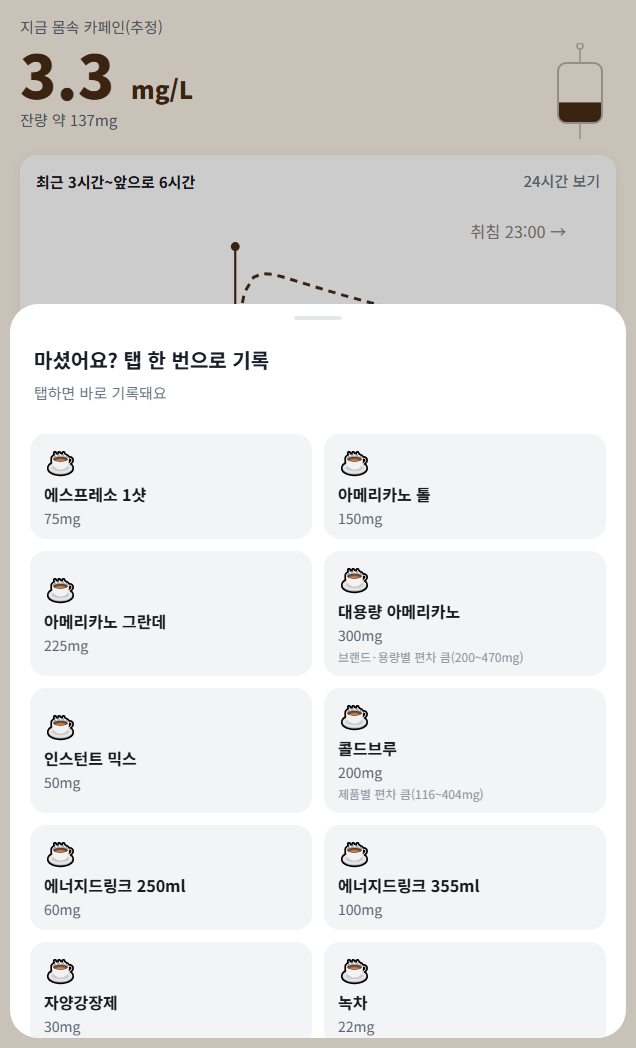
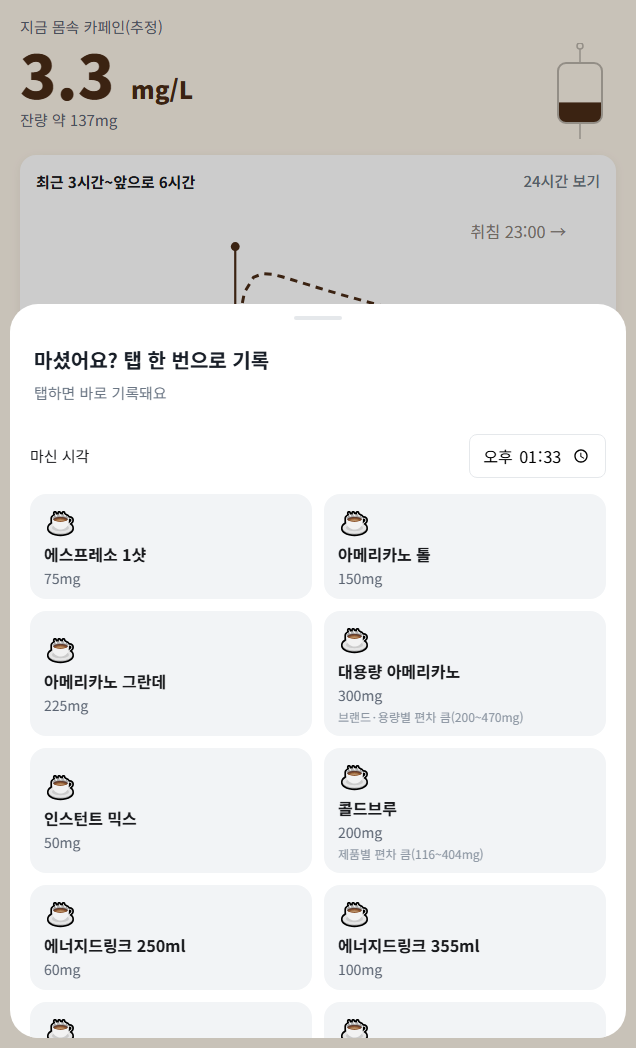
기록 시트 시각 입력을 절대 시각 네이티브 피커로 교체 (15차 개정)
- RecordSheet: hourOffset 스테퍼(◀/▶) 삭제, "마신 시각" <input type="time"
  step=60>을 그리드 위로("언제 → 무엇을"). 안 건드리면 nowMs 그대로 사용
  (탭 한 번으로 기록 유지), 시트 재오픈 시 항상 "지금"으로 리셋
- bedtime.ts: lastOccurrenceMs(now, hhmm) 추가 — bedtimeMsOf와 반대 방향
  (미래면 하루 뺀다). normalizeBedtime에 fallback 인자 추가해 재사용
  (마신 시각은 파싱 실패 시 "지금"으로 폴백, 취침은 "23:00")
- check-core.ts #14: 고정 4케이스 + 288개 성질 assert + 두 함수가 같은
  입력에서 같은 값을 내면 안 된다는 방향 확인 assert

diff --git a/src/features/home/RecordSheet.tsx b/src/features/home/RecordSheet.tsx
@@ -1,8 +1,9 @@
 import { useState } from "react";
-import { BottomSheet, Button, ListRow, TextButton, TextField } from "@toss/tds-mobile";
+import { BottomSheet, Button, ListRow, TextField } from "@toss/tds-mobile";
 import { adaptive } from "@toss/tds-colors";
 
 import { PRESETS, type Drink, type PresetInfo } from "../../lib/caffeine";
+import { lastOccurrenceMs, toKstHHMM } from "../../lib/bedtime";
 import { palette } from "../../theme";
 
 /** 기록 시트(§2) — 탭 한 번 즉시 기록, 광고·확인 절차 없음(코어 루프 보호). */
@@ -24,14 +25,13 @@ export function RecordSheet({
   onRemove: (id: string) => void;
 }) {
   const [customMg, setCustomMg] = useState("");
-  const [hourOffset, setHourOffset] = useState(0); // 0=지금, 1=1시간 전 ...
-  const [showStepper, setShowStepper] = useState(false);
-  const atMs = nowMs - hourOffset * 3_600_000;
+  // null = 안 건드림 → "지금"(§2 15차). 건드리면 그 시각의 직전 발생(미래 불가)으로 고정된다.
+  const [timeText, setTimeText] = useState<string | null>(null);
+  const atMs = timeText == null ? nowMs : lastOccurrenceMs(nowMs, timeText);
 
   const reset = () => {
     setCustomMg("");
-    setHourOffset(0);
-    setShowStepper(false);
+    setTimeText(null);
   };
 
   return (
@@ -46,6 +46,18 @@ export function RecordSheet({
     >
       {/* 시트 좌우 패딩 20px — 헤더(TDS 기본 여백)와 그리드가 같은 좌측 기준선을 쓰게 한다(§2 13차). */}
       <div style={{ padding: "0 20px 16px" }}>
+      {/* "언제 → 무엇을" — 그리드보다 위(§2 15차). 네이티브(TDS에 시간 컴포넌트 없음, §3와 같은 이유).
+          절대 시각만 표기 — 1시간 스텝 상대 표기는 tmax 38.6분 정밀도를 입력 단계에서 무효화했다. */}
+      <div style={{ display: "flex", justifyContent: "space-between", alignItems: "center", marginTop: 16 }}>
+        <span style={{ fontSize: 15, color: palette.ink }}>마신 시각</span>
+        <input
+          type="time"
+          step={60}
+          value={timeText ?? toKstHHMM(nowMs)}
+          onChange={(e) => setTimeText(e.target.value)}
+          style={{ fontSize: 16, padding: "8px 12px", border: `1px solid ${adaptive.grey200}`, borderRadius: 8 }}
+        />
+      </div>
       <div style={{ display: "grid", gridTemplateColumns: "1fr 1fr", gap: 12, marginTop: 16 }}>
         {(Object.entries(PRESETS) as [keyof typeof PRESETS, PresetInfo][]).map(
           ([key, preset]) => (
@@ -101,25 +113,6 @@ export function RecordSheet({
         >
           추가
         </Button>
-      </div>
-
-      <div style={{ marginTop: 8, marginBottom: 12 }}>
-        <TextButton size="small" variant="underline" onClick={() => setShowStepper((v) => !v)}>
-          {hourOffset === 0 ? "지금 마셨어요" : `${hourOffset}시간 전`} · 시각 바꾸기
-        </TextButton>
-        {showStepper && (
-          <div style={{ display: "flex", alignItems: "center", gap: 12, marginTop: 8 }}>
-            <TextButton size="small" onClick={() => setHourOffset((h) => Math.min(h + 1, 12))}>
-              ◀ 더 전으로
-            </TextButton>
-            <span style={{ fontSize: 15, color: palette.ink }}>
-              {hourOffset === 0 ? "지금" : `${hourOffset}시간 전`}
-            </span>
-            <TextButton size="small" onClick={() => setHourOffset((h) => Math.max(h - 1, 0))}>
-              더 나중으로 ▶
-            </TextButton>
-          </div>
-        )}
       </div>
 
       {todayDrinks.length > 0 && (

diff --git a/src/lib/bedtime.ts b/src/lib/bedtime.ts
@@ -3,11 +3,17 @@ const DAY_MS = 24 * 60 * 60 * 1000;
 const DEFAULT_BEDTIME = "23:00";
 const BEDTIME_RE = /^([01]\d|2[0-3]):([0-5]\d)$/;
 
-/** "HH:MM" 정규화 — 형식이 안 맞으면 기본값. 옛 저장값·손상된 값 경로를 막는다(normalizeWeightKg와 같은 이유).
+/** "HH:MM" 정규화 — 형식이 안 맞으면 fallback. 옛 저장값·손상된 값 경로를 막는다(normalizeWeightKg와 같은 이유).
  * 21:00~02:00 범위는 강제하지 않는다 — <input type="time">의 min/max는 입력을 막아주지 않을 수 있고,
  * 취침 시각은 계산 기준점일 뿐이라 범위 밖 값(예: 05:00)이 와도 수식은 그대로 성립한다. */
-export function normalizeBedtime(input: unknown): string {
-  return typeof input === "string" && BEDTIME_RE.test(input) ? input : DEFAULT_BEDTIME;
+export function normalizeBedtime(input: unknown, fallback: string = DEFAULT_BEDTIME): string {
+  return typeof input === "string" && BEDTIME_RE.test(input) ? input : fallback;
+}
+
+/** ms → KST "HH:MM". 기록 시트의 시각 입력 기본값 표시 등 화면 쪽에서도 재사용한다. */
+export function toKstHHMM(ms: number): string {
+  const kst = new Date(ms + KST_OFFSET_MS);
+  return `${String(kst.getUTCHours()).padStart(2, "0")}:${String(kst.getUTCMinutes()).padStart(2, "0")}`;
 }
 
 /**
@@ -23,4 +29,20 @@ export function bedtimeMsOf(nowMs: number, bedtime: string = DEFAULT_BEDTIME): n
   const d = kst.getUTCDate();
   const target = Date.UTC(y, mo, d, h, m, 0) - KST_OFFSET_MS;
   return target <= nowMs ? target + DAY_MS : target;
+}
+
+/**
+ * 직전 발생(설정 시각 KST) — 마신 시각은 미래일 수 없다. 오늘 그 시각이 아직 안 왔으면 어제(§12.8 #14).
+ * bedtimeMsOf와 방향이 정반대다 — 부호만 안 뒤집는 게 실제 사고 유형이라 함수명을 다르게 잡았다.
+ * 파싱 실패 시 폴백은 "지금"의 HH:MM이다 — "지금 마셨다"가 유일하게 안전한 해석이라서(취침의 기본값
+ * "23:00"과 다른 이유).
+ */
+export function lastOccurrenceMs(nowMs: number, hhmm: string): number {
+  const kst = new Date(nowMs + KST_OFFSET_MS);
+  const [h, m] = normalizeBedtime(hhmm, toKstHHMM(nowMs)).split(":").map(Number);
+  const y = kst.getUTCFullYear();
+  const mo = kst.getUTCMonth();
+  const d = kst.getUTCDate();
+  const target = Date.UTC(y, mo, d, h, m, 0) - KST_OFFSET_MS;
+  return target > nowMs ? target - DAY_MS : target;
 }

diff --git a/scripts/check-core.ts b/scripts/check-core.ts
@@ -18,7 +18,7 @@ import {
   type Drink,
   type Profile,
 } from "../src/lib/caffeine.ts";
-import { bedtimeMsOf } from "../src/lib/bedtime.ts";
+import { bedtimeMsOf, lastOccurrenceMs } from "../src/lib/bedtime.ts";
 import { toKstDateKey } from "../src/lib/dateKey.ts";
 
 function assertClose(got: number, want: number, tol: number, label: string): void {
@@ -215,4 +215,29 @@ for (let i = 0; i < 288; i += 1) {
   );
 }
 
-console.log("check:core 전부 통과 (assert 1~13)");
+/* #14 — §12.8 신설(기록 시각 입력, 15차). 마신 시각은 미래일 수 없다 — bedtimeMsOf와 방향이
+ * 정반대다. 부호만 안 뒤집는 게 실제 사고 유형이라 두 함수가 같은 입력에서 같은 값을 내면 안 된다. */
+const NOW_1400 = Date.parse("2026-09-01T05:00:00Z"); // 14:00 KST
+assert.equal(lastOccurrenceMs(NOW_1400, "09:20"), Date.parse("2026-09-01T00:20:00Z"), "#14 14:00/09:20 → 오늘");
+assert.equal(lastOccurrenceMs(NOW_1400, "23:30"), Date.parse("2026-08-31T14:30:00Z"), "#14 14:00/23:30 → 어제");
+assert.equal(lastOccurrenceMs(NOW_1400, "14:00"), NOW_1400, "#14 14:00/14:00 → 오늘");
+assert.equal(lastOccurrenceMs(NOW_1400, "14:01"), Date.parse("2026-08-31T05:01:00Z"), "#14 14:00/14:01 → 어제");
+assert.equal(lastOccurrenceMs(NOW_1400, "abc"), NOW_1400, "#14 깨진 입력 → now");
+assert.notEqual(
+  bedtimeMsOf(NOW_1400, "09:20"),
+  lastOccurrenceMs(NOW_1400, "09:20"),
+  "#14 bedtimeMsOf와 lastOccurrenceMs는 같은 입력에서 같은 값을 내면 안 된다(방향 반대 확인)",
+);
+
+// 성질: 임의 now × HH:MM 288개 전부 now - 24h < 결과 <= now.
+for (let i = 0; i < 288; i += 1) {
+  const totalMin = i * 5;
+  const hhmm = `${String(Math.floor(totalMin / 60)).padStart(2, "0")}:${String(totalMin % 60).padStart(2, "0")}`;
+  const result = lastOccurrenceMs(PROPERTY_NOW, hhmm);
+  assert.ok(
+    result > PROPERTY_NOW - 24 * HOUR_MS && result <= PROPERTY_NOW,
+    `#14 성질: hhmm=${hhmm} → now-24h < 결과 <= now 위반(${result})`,
+  );
+}
+
+console.log("check:core 전부 통과 (assert 1~14)");
